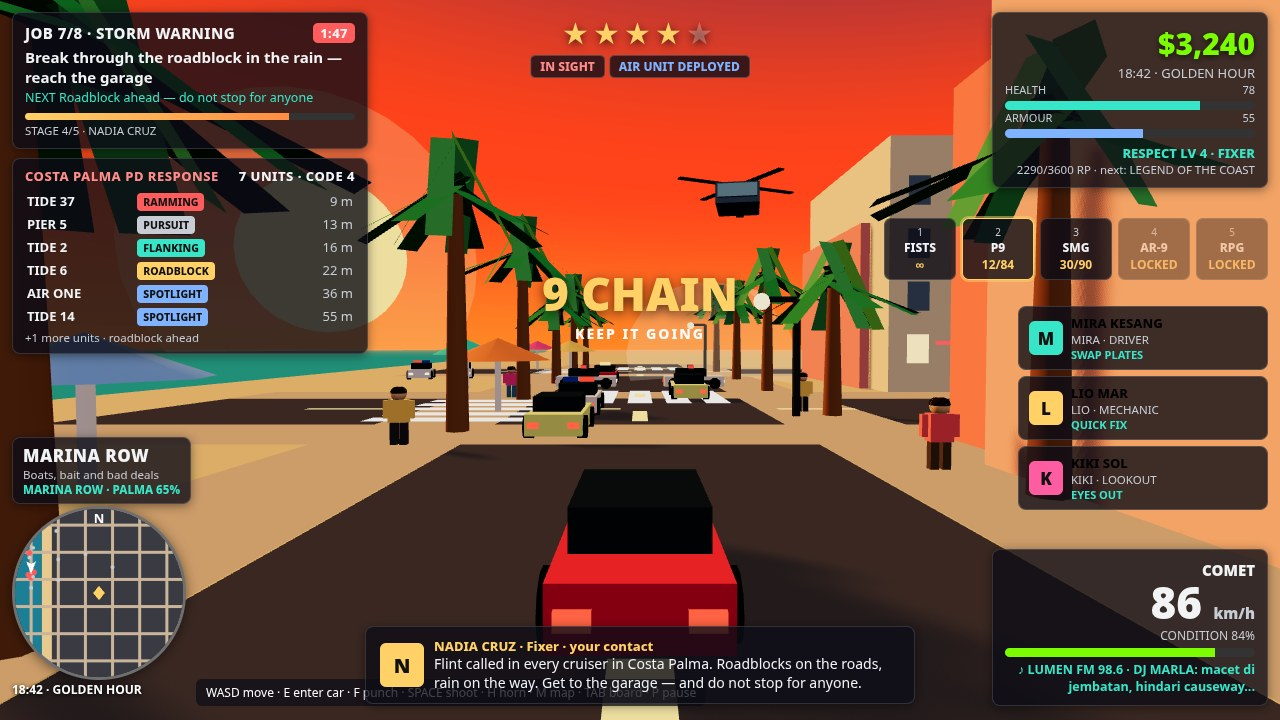
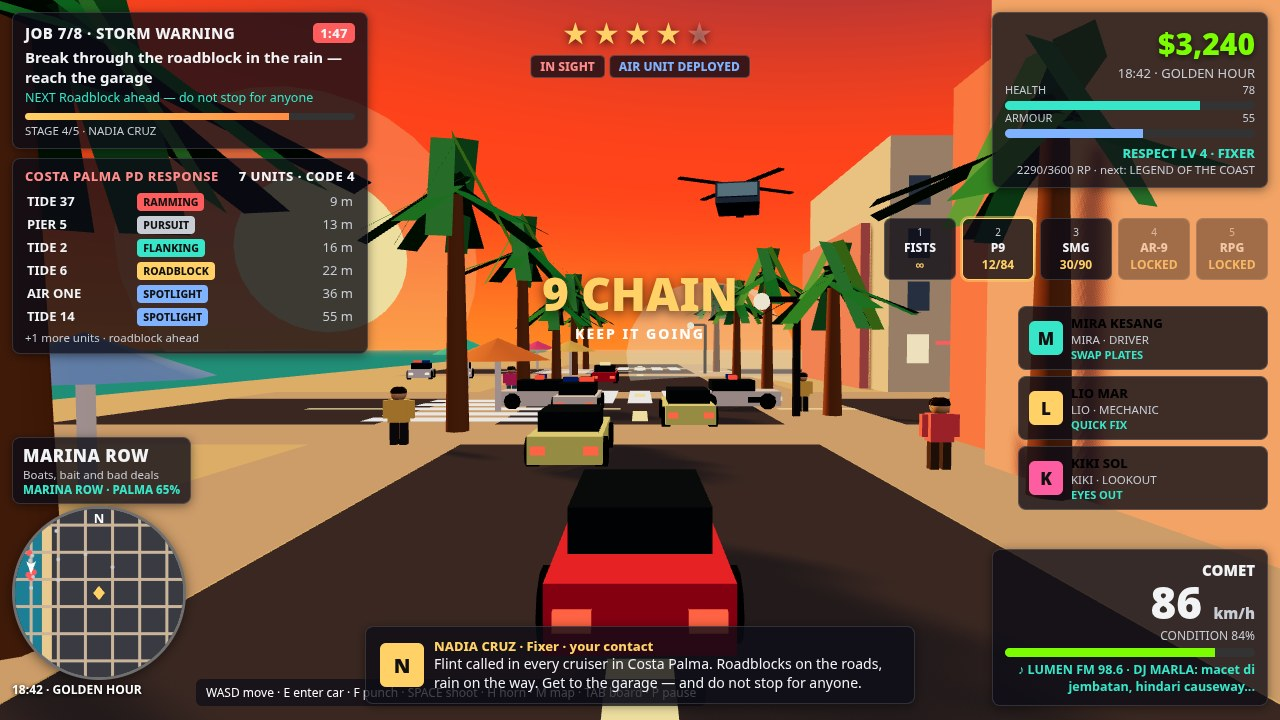
Cover pass: traffic closer ahead, roadblock reads as a barrier, brighter heli searchlight

Changed region(s): [[0.375, 0.4278, 0.625, 0.6722]]

diff --git a/game/src/shots.js b/game/src/shots.js
@@ -80,7 +80,7 @@ export function stageShot(name, ctx) {
     mr.owner = 'PALMA'; mr.pct = 65; mr.war = false;
     // Beach road: sea and sun open to the west, palms lining both sides.
     placeTraffic(ctx, [
-      [-108, -55, Math.PI, 14], [-102, -70, Math.PI, 12], [-108, -85, Math.PI, 11],
+      [-107, -50, Math.PI, 14], [-103, -58, Math.PI, 12], [-108, -85, Math.PI, 11],
       [-102, -25, 0, 9], [-63, -52, 0, 9], [-63, -20, Math.PI, 10],
       [-21, -60, 0, 11], [-105, -8, Math.PI, 13], [-66, -96, Math.PI, 15], [21, -40, 0, 10],
     ]);
@@ -105,12 +105,12 @@ export function stageShot(name, ctx) {
       h.group.rotation.y = Math.atan2(G.player.x - h.x, G.player.z - h.z);
       aimCone(h, G.player);
     }
-    // Roadblock across the road ahead, in the distance.
+    // Roadblock across the road ahead, close enough to read as a barrier.
     if (ctx.police.roadblock) {
       const rb = ctx.police.roadblock;
-      rb.x = -105; rb.z = -78;
-      rb.meshes[0]?.position.set(-109, 0, -78);
-      rb.meshes[1]?.position.set(-101, 0, -78);
+      rb.x = -105; rb.z = -64;
+      rb.meshes[0]?.position.set(-110, 0, -64);
+      rb.meshes[1]?.position.set(-100, 0, -64);
     }
     ctx.marker.position.set(0, 20, 0);
     G.missionTarget = { x: 0, z: 0 };

diff --git a/game/src/police.js b/game/src/police.js
@@ -99,13 +99,13 @@ export function createPolice(scene, rng) {
     // Searchlight cone + the bright circle it paints on the street.
     const cone = new THREE.Mesh(
       new THREE.ConeGeometry(6, 20, 20, 1, true),
-      new THREE.MeshBasicMaterial({ color: 0xfff2b0, transparent: true, opacity: 0.24, side: THREE.DoubleSide, depthWrite: false }),
+      new THREE.MeshBasicMaterial({ color: 0xfff2b0, transparent: true, opacity: 0.38, side: THREE.DoubleSide, depthWrite: false }),
     );
     cone.position.y = -10;
     group.add(cone);
     const pool = new THREE.Mesh(
       new THREE.CircleGeometry(6, 24),
-      new THREE.MeshBasicMaterial({ color: 0xfff2b0, transparent: true, opacity: 0.3, depthWrite: false }),
+      new THREE.MeshBasicMaterial({ color: 0xfff2b0, transparent: true, opacity: 0.45, depthWrite: false }),
     );
     pool.rotation.x = -Math.PI / 2;
     pool.position.y = -19.9;
